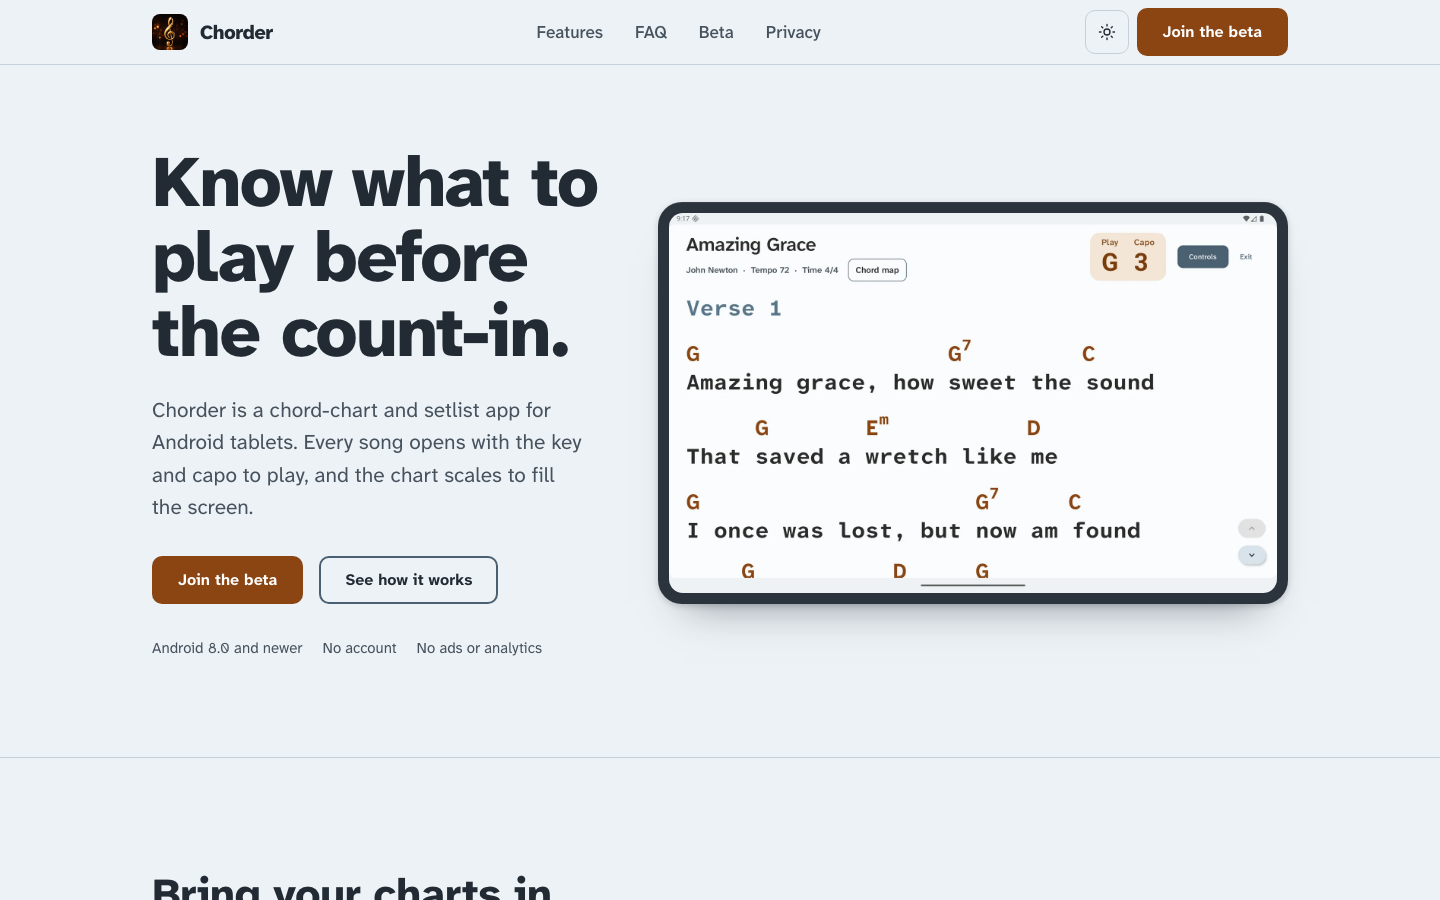
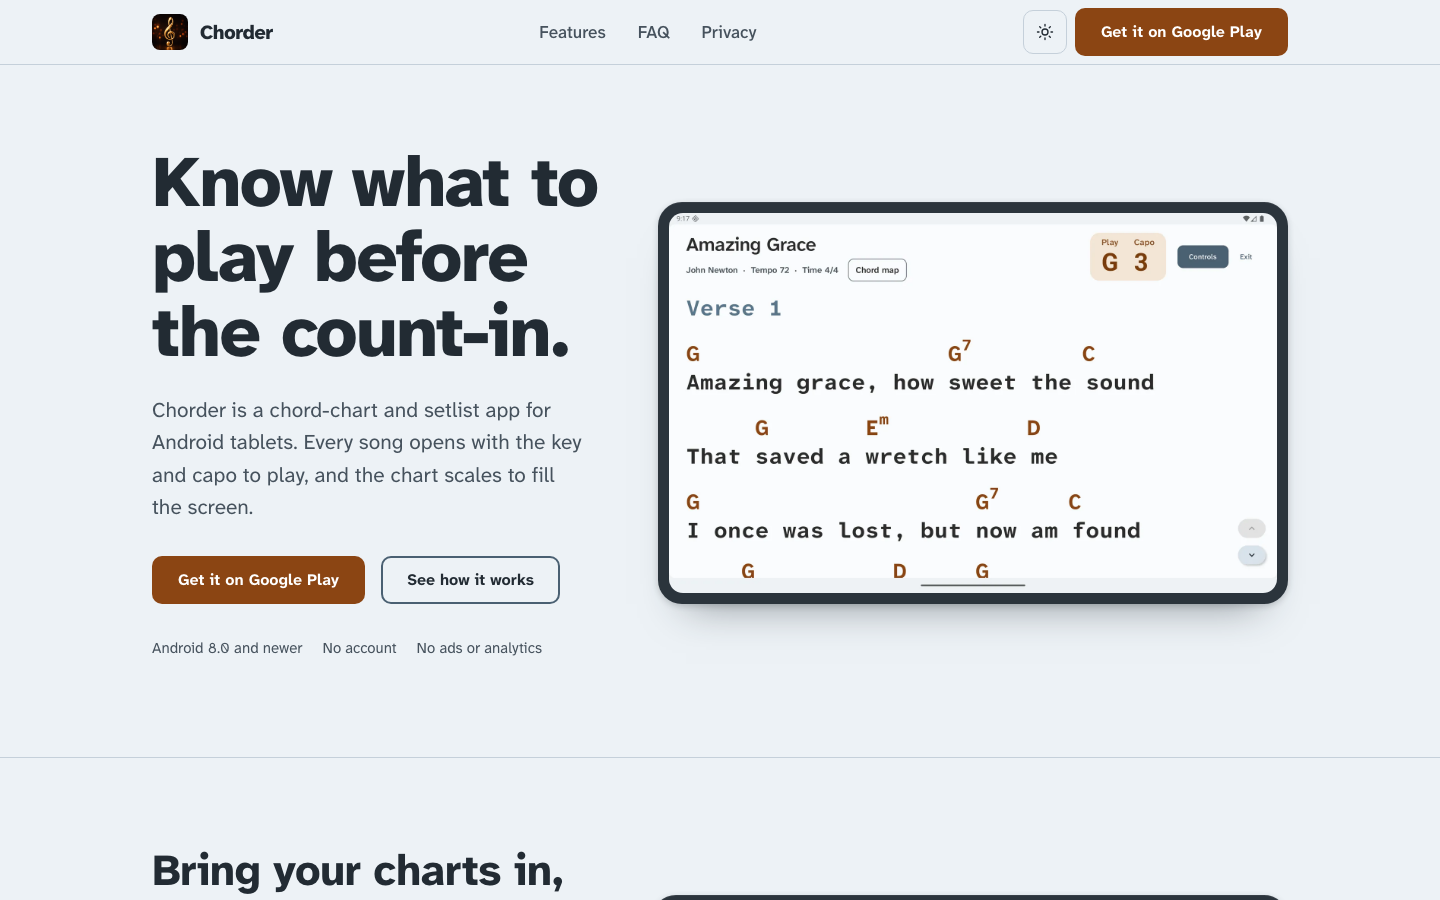
Add v1.1.0 features to site copy and a Settings chapter
Reorder, page turns, library tools, duplicate handling, backup detail,
Settings tabs, themes, tips and screen-reader chord descriptions. Adds a
Settings screenshot and recaptures the light hero screenshots.

diff --git a/src/content/features.ts b/src/content/features.ts
@@ -13,7 +13,7 @@ export const FEATURES: Feature[] = [
   {
     title: 'Key and capo per song',
     blurb:
-      'Set a band key and a capo for each song in a setlist. The Play block shows the key to play and the capo, and the chart follows.',
+      'Set a band key, target key and capo for each song in a setlist. Library, setlist and chart rows lead with the key, and the Play block shows the key to play and the capo.',
   },
   {
     title: 'Edit any chart',
@@ -21,9 +21,49 @@ export const FEATURES: Feature[] = [
       'Drag a chord along the lyric, long-press to change it, long-press a gap to add one, and mark section headings. Show the original PDF under the editable chart.',
   },
   {
+    title: 'Reorder setlists by drag',
+    blurb:
+      'Drag the grip on a setlist row to reorder it. Move up and Move down are also in the row menu and as screen-reader actions on the grip.',
+  },
+  {
+    title: 'Page-turn buttons',
+    blurb:
+      'Step through a long chart in Performance view with the Page up and Page down buttons. In Settings, choose Full page, where every page starts on a new line, or Keep screen full, where the last page stops at the end of the song and repeats some lines from the one before.',
+  },
+  {
+    title: 'Library tools',
+    blurb:
+      'Sort alphabetically or by import date, ascending or descending. Select songs to add them to a new setlist in the order you picked. Manage tags in one place.',
+  },
+  {
+    title: 'Imports and duplicates',
+    blurb:
+      'When a PDF or Planning Center song is already in the Library, choose Overwrite, Create copy or Skip, and apply it to every remaining duplicate. You can also open a PDF in Chorder from another app.',
+  },
+  {
     title: 'Planning Center Services',
     blurb:
       'Connect your account, search by title or CCLI number or browse a plan, and import its PDF charts. Imports are local copies; Chorder never edits Services. Your church\u2019s subscriptions and permissions still apply.',
+  },
+  {
+    title: 'Backup and restore',
+    blurb:
+      'In Settings > Library, export your charts, edits, notes, annotations, tags and setlists to one JSON file. Restore by adding copies (the default), skipping songs you already have, or replacing the library, which asks you to confirm. An invalid or failed restore leaves the library unchanged. Original PDFs and settings are not included, and the file is not encrypted.',
+  },
+  {
+    title: 'Settings in four tabs',
+    blurb:
+      'Performance for page turns, Appearance for themes, Library for backup and Planning Center, and Help for tips, the in-app Help screen, rating and sharing.',
+  },
+  {
+    title: 'Light, dark and your own themes',
+    blurb:
+      'Choose Chorder Light, Chorder Dark, or System to match the device. Copy a theme to change its menu, chart and chord colours. Text is set in Atkinson Hyperlegible, with 48dp touch targets.',
+  },
+  {
+    title: 'Help, tips and a sample chart',
+    blurb:
+      'Short tips appear once, the first time you reach a feature, and can be turned off or shown again. Help covers each area, and a bundled public-domain sample chart, Amazing Grace, lets you try the app before importing anything.',
   },
   {
     title: 'Chord detection (experimental)',
@@ -31,18 +71,8 @@ export const FEATURES: Feature[] = [
       'Listens through the microphone and shows the chord it hears, with a spectrum. Audio is processed on the device and never recorded or uploaded.',
   },
   {
-    title: 'Backup and restore',
+    title: 'Screen-reader support',
     blurb:
-      'Export your charts, notes, annotations, setlists and tags to a JSON file. Restore by adding copies, skipping existing songs, or replacing the library. Original PDFs and settings are not included, and the file is not encrypted.',
-  },
-  {
-    title: 'Light and dark themes',
-    blurb:
-      'Built-in light and dark themes, plus a theme editor. Text is set in Atkinson Hyperlegible, with 48dp touch targets.',
-  },
-  {
-    title: 'Screen-reader semantics',
-    blurb:
-      'The Play key is read first, song rows speak as one phrase, and the drag handle has Move up and Move down actions.',
+      'The Play key is read first and song rows speak as one phrase. Chords are spoken as names, so F#m7/A is read as \u201cF sharp m7 over A\u201d, followed by the lyric.',
   },
 ];

diff --git a/src/content/faqs.ts b/src/content/faqs.ts
@@ -7,7 +7,7 @@ export const FAQS: FAQ[] = [
   },
   {
     q: 'Where do my charts come from?',
-    a: 'You import them. Pick one or more PDF charts, pull songs from Planning Center Services, or paste a public web page with lyrics or chords. Each import opens in a review step before it is saved. Scanned PDFs are read with on-device text recognition.',
+    a: 'You import them. Pick one or more PDF charts, open a PDF from another app, pull songs from Planning Center Services, or paste a public web page with lyrics or chords. Each import opens in a review step before it is saved. Scanned PDFs are read with on-device text recognition.',
   },
   {
     q: 'Can I edit a chart after I import it?',
@@ -23,7 +23,11 @@ export const FAQS: FAQ[] = [
   },
   {
     q: 'How do I back up my library?',
-    a: 'Export a backup from Settings. It is a JSON file with your charts, notes, annotations, setlists and tags. Original PDFs and settings are not included, and the file is not encrypted.',
+    a: 'Open Settings > Library and choose Export backup. You get one JSON file, saved wherever you pick with Android\u2019s file picker, including a document provider such as Google Drive. It holds your charts, edits, notes, annotations, tags and setlists. To restore, add the songs as copies, skip songs you already have, or replace the library, which asks you to confirm. Original PDFs and app settings are not included, and the file is not encrypted.',
+  },
+  {
+    q: 'Does it work with a screen reader?',
+    a: 'Chorder has TalkBack support. Chords are spoken as names, so F#m7/A is read as \u201cF sharp m7 over A\u201d, followed by the lyric. Setlist rows can be reordered with Move up and Move down actions as well as by dragging.',
   },
   {
     q: 'How much does Chorder cost?',

diff --git a/src/content/screenshots.ts b/src/content/screenshots.ts
@@ -7,7 +7,8 @@ export type ShotId =
   | 'performance-single'
   | 'performance-setlist'
   | 'detect'
-  | 'planning-center';
+  | 'planning-center'
+  | 'settings-themes';
 
 export type Shot = {
   /** File stem in public/images/app/: `{id}-{theme}-{width}.webp` */
@@ -73,5 +74,11 @@ export const SHOTS: Record<ShotId, Shot> = {
     width: 1600,
     height: 1000,
     alt: 'Chorder Services import connected to Planning Center. Tabs for Search songs and Browse plans, a field for song title or CCLI number, and a list of songs that have PDFs. A note says imports are local copies.',
+  },
+  'settings-themes': {
+    id: 'settings-themes',
+    width: 1600,
+    height: 1000,
+    alt: 'Chorder Settings on the Appearance tab, with Performance, Appearance, Library and Help tabs. A list of themes (System, Chorder Dark, Chorder Light and two custom copies) sits beside a theme editor with a preview of chords in brass above the lyric Amazing grace how sweet the sound.',
   },
 };

diff --git a/scripts/optimise-screenshots.py b/scripts/optimise-screenshots.py
@@ -4,7 +4,7 @@
 Usage: python3 scripts/optimise-screenshots.py <path-to-ui-review>
 
 Expects <ui-review>/consolidated/{light|dark}-<name>.png (2560x1600) and
-<ui-review>/opus/final-{light|dark}-{detect,planning-center-connected}.png.
+<ui-review>/opus/final-{light|dark}-{detect,planning-center-connected,theme-editor}.png.
 Writes public/images/app/<name>-<theme>-{1600,800}.webp. Requires Pillow.
 """
 import os
@@ -28,6 +28,7 @@ for theme in ['light', 'dark']:
     # The detect capture is mostly empty; keep only the panel at the top.
     jobs[f'detect-{theme}'] = (f'opus/final-{theme}-detect.png', (0, 0, 2560, 520))
     jobs[f'planning-center-{theme}'] = (f'opus/final-{theme}-planning-center-connected.png', None)
+    jobs[f'settings-themes-{theme}'] = (f'opus/final-{theme}-theme-editor.png', None)
 
 for name, (rel, crop) in jobs.items():
     im = Image.open(os.path.join(src_root, rel)).convert('RGB')
